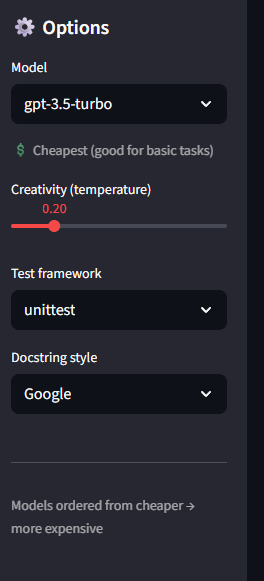
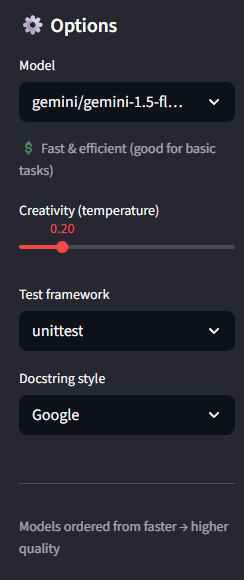
feat: migrate from OpenAI to Gemini API with latest models

diff --git a/app.py b/app.py
@@ -6,7 +6,7 @@ from core.types import ModelName, DocstringStyle
 from core.llm import ensure_api_key
 from core.pipeline import generate_documented_function, generate_tests
 from core.parsing import check_syntax
-from core.secrets import get_openai_api_key
+from core.secrets import get_gemini_api_key
 from core.filenames import infer_function_name, sanitize_basename
 
 st.set_page_config(page_title="PyFunc Generator", page_icon="🐍", layout="wide")
@@ -31,10 +31,9 @@ def render_sidebar() -> tuple[ModelName, float, str, DocstringStyle]:  # ⬅ 
     st.sidebar.header("⚙ Options")
     model_options = list(get_args(ModelName))
     model_cost_info = {
-        "gpt-3.5-turbo": "💲 Cheapest (good for basic tasks)",
-        "o3-mini": "💲 Low cost, better than 3.5",
-        "gpt-4o-mini": "💲💲 Mid-tier, faster and accurate",
-        "gpt-4o": "💲💲💲 Highest quality, most expensive",
+        "gemini/gemini-1.5-flash": "💲 Fast & efficient (good for basic tasks)",
+        "gemini/gemini-1.5-pro": "💲💲 Mid-tier quality",
+        "gemini/gemini-2.0-flash": "💲💲💲 Latest & most capable",
     }
     model: ModelName = st.sidebar.selectbox("Model", model_options, index=0)  # type: ignore[assignment]
     st.sidebar.caption(model_cost_info.get(model, ""))
@@ -47,7 +46,7 @@ def render_sidebar() -> tuple[ModelName, float, str, DocstringStyle]:  # ⬅ 
     docstring_style: DocstringStyle = "google" if doc_style_label == "Google" else "numpy"  # ⬅ typed
 
     st.sidebar.markdown("---")
-    st.sidebar.caption("Models ordered from cheaper → more expensive")
+    st.sidebar.caption("Models ordered from faster → higher quality")
     return model, temperature, framework, docstring_style
 
 def generate_doc_fn(
@@ -96,11 +95,11 @@ def render_code_tab(code: str, ok, err, download_label: str, filename_builder) -
 
 # ---------- Init + API key ----------
 init_state()
-OPENAI_API_KEY = get_openai_api_key()
+GEMINI_API_KEY = get_gemini_api_key()
 try:
-    ensure_api_key(OPENAI_API_KEY)
+    ensure_api_key(GEMINI_API_KEY)
 except Exception:
-    st.error("Missing OpenAI API key. Set it in a local `.env` (OPENAI_API_KEY=...) "
+    st.error("Missing Gemini API key. Set it in a local `.env` (GEMINI_API_KEY=...) "
              "or in Streamlit Cloud → App → Settings → Secrets.")
     st.stop()
 

diff --git a/core/llm.py b/core/llm.py
@@ -3,13 +3,13 @@ from litellm import completion
 from .types import Messages, ModelName
 
 def ensure_api_key(api_key: str | None) -> None:
-    """Ensure OPENAI_API_KEY is present in environment for LiteLLM."""
+    """Ensure GEMINI_API_KEY is present in environment for LiteLLM."""
     if not api_key:
         raise ValueError(
             "Missing API key. Add it to `.streamlit/secrets.toml` as "
-            'OPENAI_API_KEY = "your_key" or set the OPENAI_API_KEY env var.'
+            'GEMINI_API_KEY = "your_key" or set the GEMINI_API_KEY env var.'
         )
-    os.environ["OPENAI_API_KEY"] = api_key
+    os.environ["GEMINI_API_KEY"] = api_key
 
 def gen_response(
     messages: Messages,

diff --git a/core/secrets.py b/core/secrets.py
@@ -2,13 +2,13 @@ import os
 from dotenv import load_dotenv
 import streamlit as st
 
-def get_openai_api_key() -> str | None:
+def get_gemini_api_key() -> str | None:
     """Load API key from .env (local), env var, or Streamlit secrets (Cloud)."""
     load_dotenv()  # local dev
-    key = os.getenv("OPENAI_API_KEY")
+    key = os.getenv("GEMINI_API_KEY")
     if key:
         return key
     try:
-        return st.secrets["OPENAI_API_KEY"]  # Cloud
+        return st.secrets["GEMINI_API_KEY"]  # Cloud
     except Exception:
         return None

diff --git a/core/types.py b/core/types.py
@@ -1,6 +1,6 @@
 from typing import TypedDict, Literal, List
 
-ModelName = Literal["gpt-3.5-turbo", "o3-mini", "gpt-4o-mini", "gpt-4o"]
+ModelName = Literal["gemini/gemini-1.5-flash", "gemini/gemini-1.5-pro", "gemini/gemini-2.0-flash"]
 TestFramework = Literal["unittest", "pytest"]  
 DocstringStyle = Literal["google", "numpy"]
 

diff --git a/README.md b/README.md
@@ -5,7 +5,7 @@ It returns:
 1. Documented function (with docstrings + type hints)  
 2. Unit tests (**unittest/pytest**)  
 
-**Stack:** Streamlit + LiteLLM (OpenAI)  
+**Stack:** Streamlit + LiteLLM (Gemini)  
 **Status:** Deployed ✅ → [Live Demo](https://laurapuerto-pyfunc-generator.streamlit.app/)
 
 ---
@@ -45,7 +45,7 @@ pip install -r requirements.txt
 # Add your API key (not pushed to repo)
 mkdir -p .streamlit
 # create .streamlit/secrets.toml with:
-# OPENAI_API_KEY = "your_api_key"
+# GEMINI_API_KEY = "your_api_key"
 
 streamlit run app.py
 ```
@@ -57,7 +57,7 @@ streamlit run app.py
 - **Local:** create a `.env` file with:
 
 ```
-OPENAI_API_KEY=your_api_key
+GEMINI_API_KEY=your_api_key
 ```
 
 (this file is ignored by git and not pushed to repo).  
